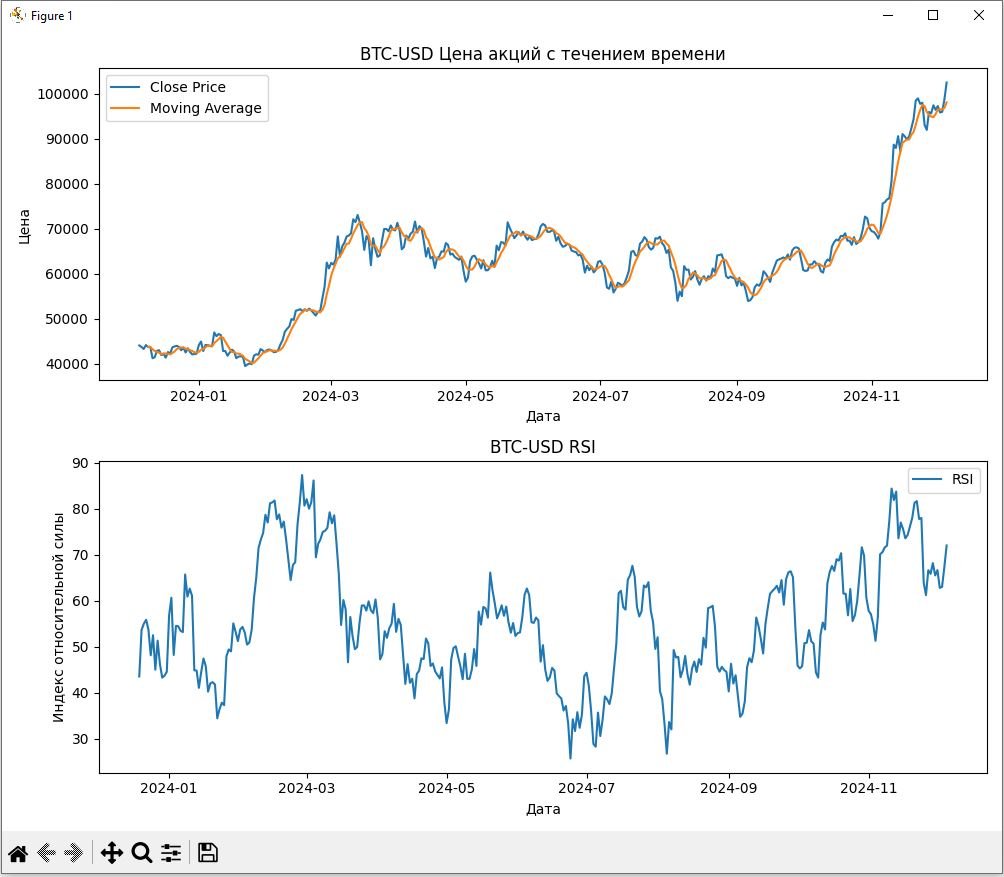
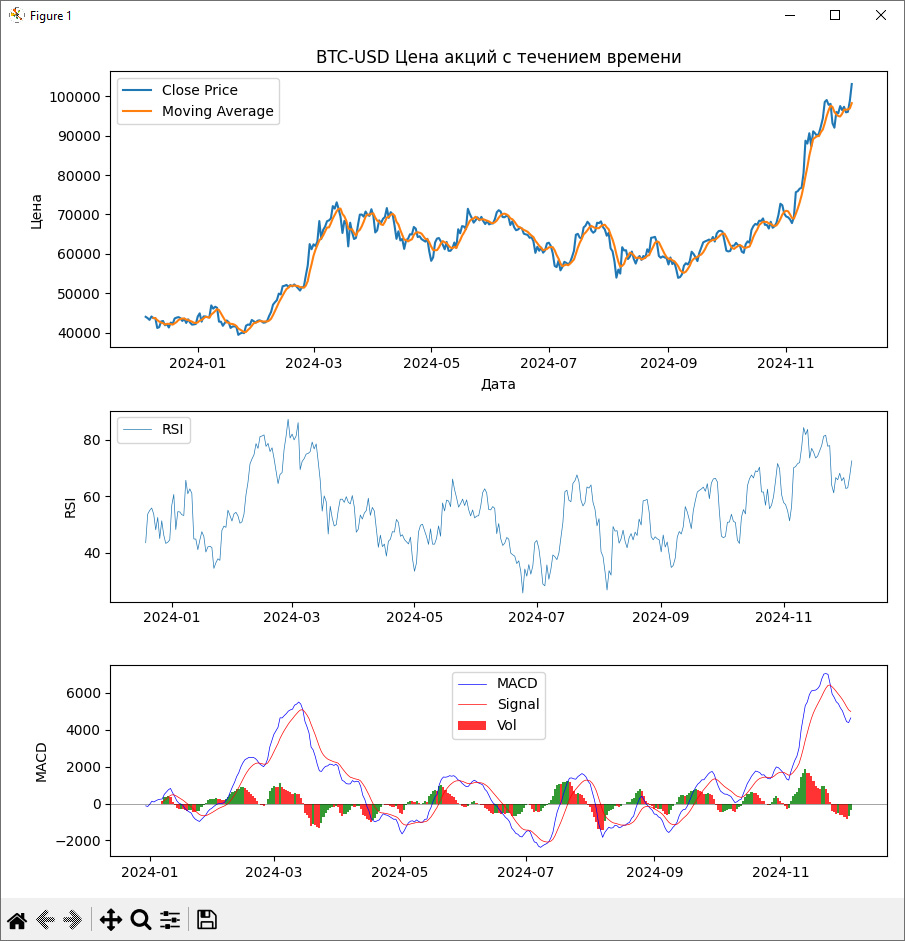
Обновить скриншот интерфейса

diff --git a/data_plotting.py b/data_plotting.py
@@ -52,6 +52,16 @@ def calculate_and_display_average_price(data: DataFrame, col='Close'):
     return data[col].mean(axis=0)
 
 
+def MACD_color(data):
+    color_list = []
+    for i in range(0, len(data)):
+        if data['MACDh_12_26_9'][i] > data['MACDh_12_26_9'][i - 1]:
+            color_list.append(True)
+        else:
+            color_list.append(False)
+    return color_list
+
+
 def create_and_save_plot(data: DataFrame, ticker: str, period: str, filename: str | None | bool = None) -> str:
     """
     Метод создает график по данным и сохраняет его на диск
@@ -63,43 +73,68 @@ def create_and_save_plot(data: DataFrame, ticker: str, period: str, filename: st
                      формироваться автоматически
     :return: Сообщение с результатом выполнения функции
     """
-    plt.figure(figsize=(10, 8))
-    plt.subplot(2, 1, 1)
+    plt.figure(figsize=(8, 8))
+    ax1 = plt.subplot2grid(shape=(10, 10), loc=(0, 0), rowspan=4, colspan=10)
 
     if 'Date' not in data:
         if pd.api.types.is_datetime64_any_dtype(data.index):
             dates = data.index.to_numpy()
-            plt.plot(dates, data['Close'].values, label='Close Price')
-            plt.plot(dates, data['Moving_Average'].values, label='Moving Average')
+            ax1.plot(dates, data['Close'].values, label='Close Price')
+            ax1.plot(dates, data['Moving_Average'].values, label='Moving Average')
         else:
             return "Информация о дате отсутствует или не имеет распознаваемого формата."
     else:
         if not pd.api.types.is_datetime64_any_dtype(data['Date']):
             data['Date'] = pd.to_datetime(data['Date'])
-        plt.plot(data['Date'], data['Close'], label='Close Price')
-        plt.plot(data['Date'], data['Moving_Average'], label='Moving Average')
+        ax1.plot(data['Date'], data['Close'], label='Close Price')
+        ax1.plot(data['Date'], data['Moving_Average'], label='Moving Average')
 
-    plt.title(f"{ticker} Цена акций с течением времени")
-    plt.xlabel("Дата")
-    plt.ylabel("Цена")
-    plt.legend()
+    ax1.set_title(f"{ticker} Цена акций с течением времени")
+    ax1.set_xlabel("Дата")
+    ax1.set_ylabel("Цена")
+    ax1.legend()
 
-    plt.subplot(2, 1, 2)
-    if 'Date' not in data:
-        if pd.api.types.is_datetime64_any_dtype(data.index):
-            dates = data.index.to_numpy()
-            plt.plot(dates, data['RSI'].values, label='RSI')
+    try:
+        ax2 = plt.subplot2grid((10, 10), (4, 0), rowspan=3, colspan=10)
+        if 'Date' not in data:
+            if pd.api.types.is_datetime64_any_dtype(data.index):
+                dates = data.index.to_numpy()
+                ax2.plot(dates, data['RSI_14'].values, label='RSI', linewidth=0.5)
+            else:
+                return "Информация о дате отсутствует или не имеет распознаваемого формата."
         else:
-            return "Информация о дате отсутствует или не имеет распознаваемого формата."
-    else:
-        if not pd.api.types.is_datetime64_any_dtype(data['Date']):
-            data['Date'] = pd.to_datetime(data['Date'])
-        plt.plot(data['Date'], data['RSI'].values, label='RSI')
+            if not pd.api.types.is_datetime64_any_dtype(data['Date']):
+                data['Date'] = pd.to_datetime(data['Date'])
+            ax2.plot(data['Date'], data['RSI_14'].values, label='RSI', linewidth=0.5)
+        ax2.set_ylabel("RSI")
+        ax2.legend()
+    except:
+        pass
 
-    plt.title(f"{ticker} RSI")
-    plt.xlabel("Дата")
-    plt.ylabel("Индекс относительной силы")
-    plt.legend()
+    try:
+        ax3 = plt.subplot2grid((10, 10), (7, 0), rowspan=3, colspan=10)
+        data['positive'] = MACD_color(data)
+        if 'Date' not in data:
+            if pd.api.types.is_datetime64_any_dtype(data.index):
+                dates = data.index.to_numpy()
+                ax3.plot(dates, data['MACD_12_26_9'].values, label='MACD', color='blue', linewidth=0.5)
+                ax3.plot(dates, data['MACDs_12_26_9'].values, label='Signal', color='red', linewidth=0.5)
+                ax3.bar(data.index, 'MACDh_12_26_9', data=data, label='Vol',
+                        color=data.positive.map({True: 'g', False: 'r'}), width=1, alpha=0.8)
+            else:
+                return "Информация о дате отсутствует или не имеет распознаваемого формата."
+        else:
+            if not pd.api.types.is_datetime64_any_dtype(data['Date']):
+                data['Date'] = pd.to_datetime(data['Date'])
+            ax3.plot(data['Date'], data['MACD_12_26_9'].values, label='MACD', color='blue', linewidth=0.5)
+            ax3.plot(data['Date'], data['MACDs_12_26_9'].values, label='Signal', color='red', linewidth=0.5)
+            ax3.bar(data.index, 'MACDh_12_26_9', data=data, label='Vol',
+                    color=data.positive.map({True: 'g', False: 'r'}), width=1, alpha=0.8)
+        ax3.axhline(0, color='black', linewidth=0.5, alpha=0.5)
+        ax3.set_ylabel("MACD")
+        ax3.legend()
+    except:
+        pass
 
     if filename is None:
         filename = f"{ticker}_{period}_stock_price_chart.png"

diff --git a/data_download.py b/data_download.py
@@ -35,8 +35,6 @@ def add_rsi_macd(data: DataFrame) -> DataFrame:
     :param data: DataFrame данные
     :return: Обновленные данные в формате DataFrame
     """
-    data['RSI'] = ta.rsi(data['Close'])
-    macd = ta.macd(data['Close'])
-    if not macd is None:
-        data = merge(data, macd, left_index=True, right_index=True)
+    data.ta.rsi(close='close', append=True)
+    data.ta.macd(close='close', fast=12, slow=26, signal=9, append=True)
     return data
